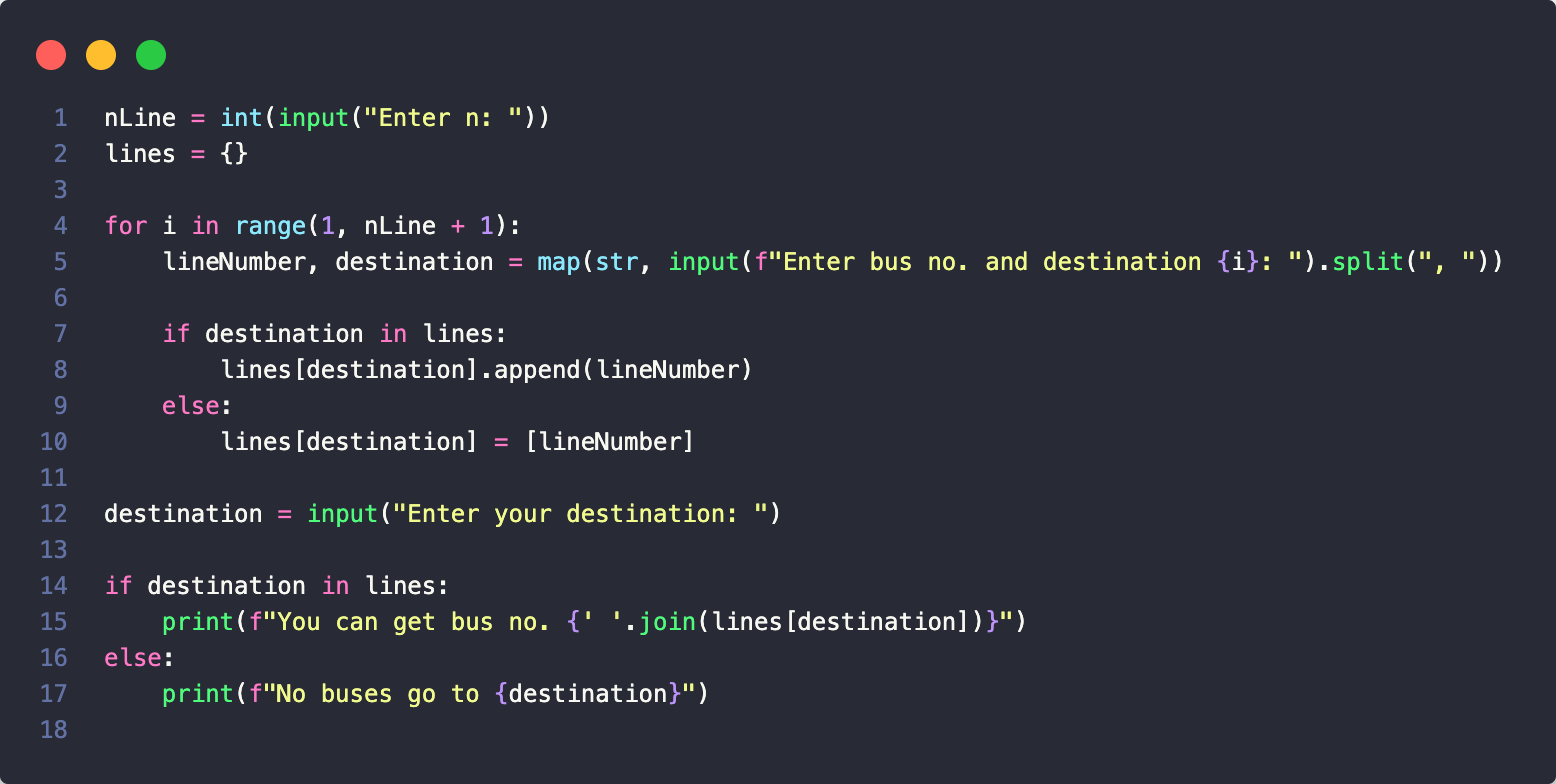
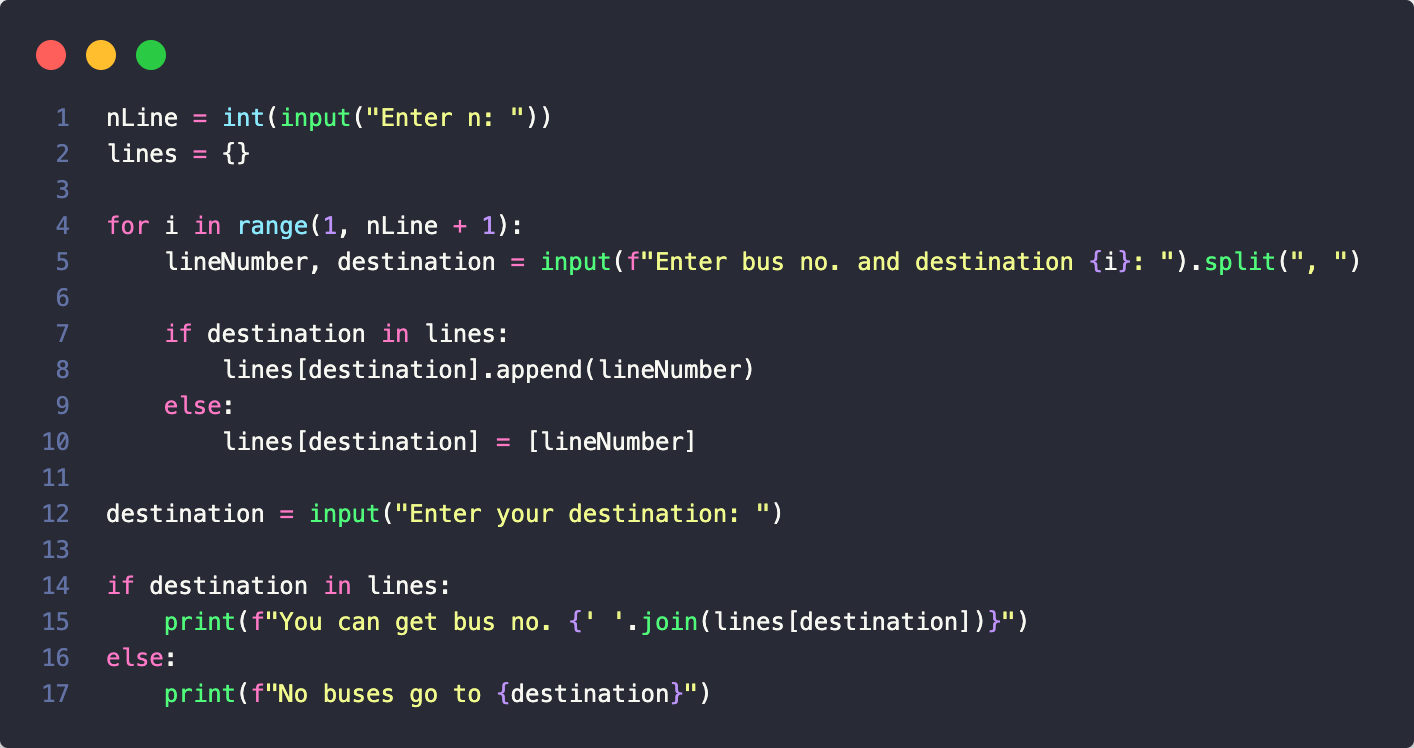
:pencil: Edit remove map function

diff --git a/chapter10/exercise3.py b/chapter10/exercise3.py
@@ -2,7 +2,7 @@ nLine = int(input("Enter n: "))
 lines = {}
 
 for i in range(1, nLine + 1):
-    lineNumber, destination = map(str, input(f"Enter bus no. and destination {i}: ").split(", "))
+    lineNumber, destination = input(f"Enter bus no. and destination {i}: ").split(", ")
     
     if destination in lines:
         lines[destination].append(lineNumber)
